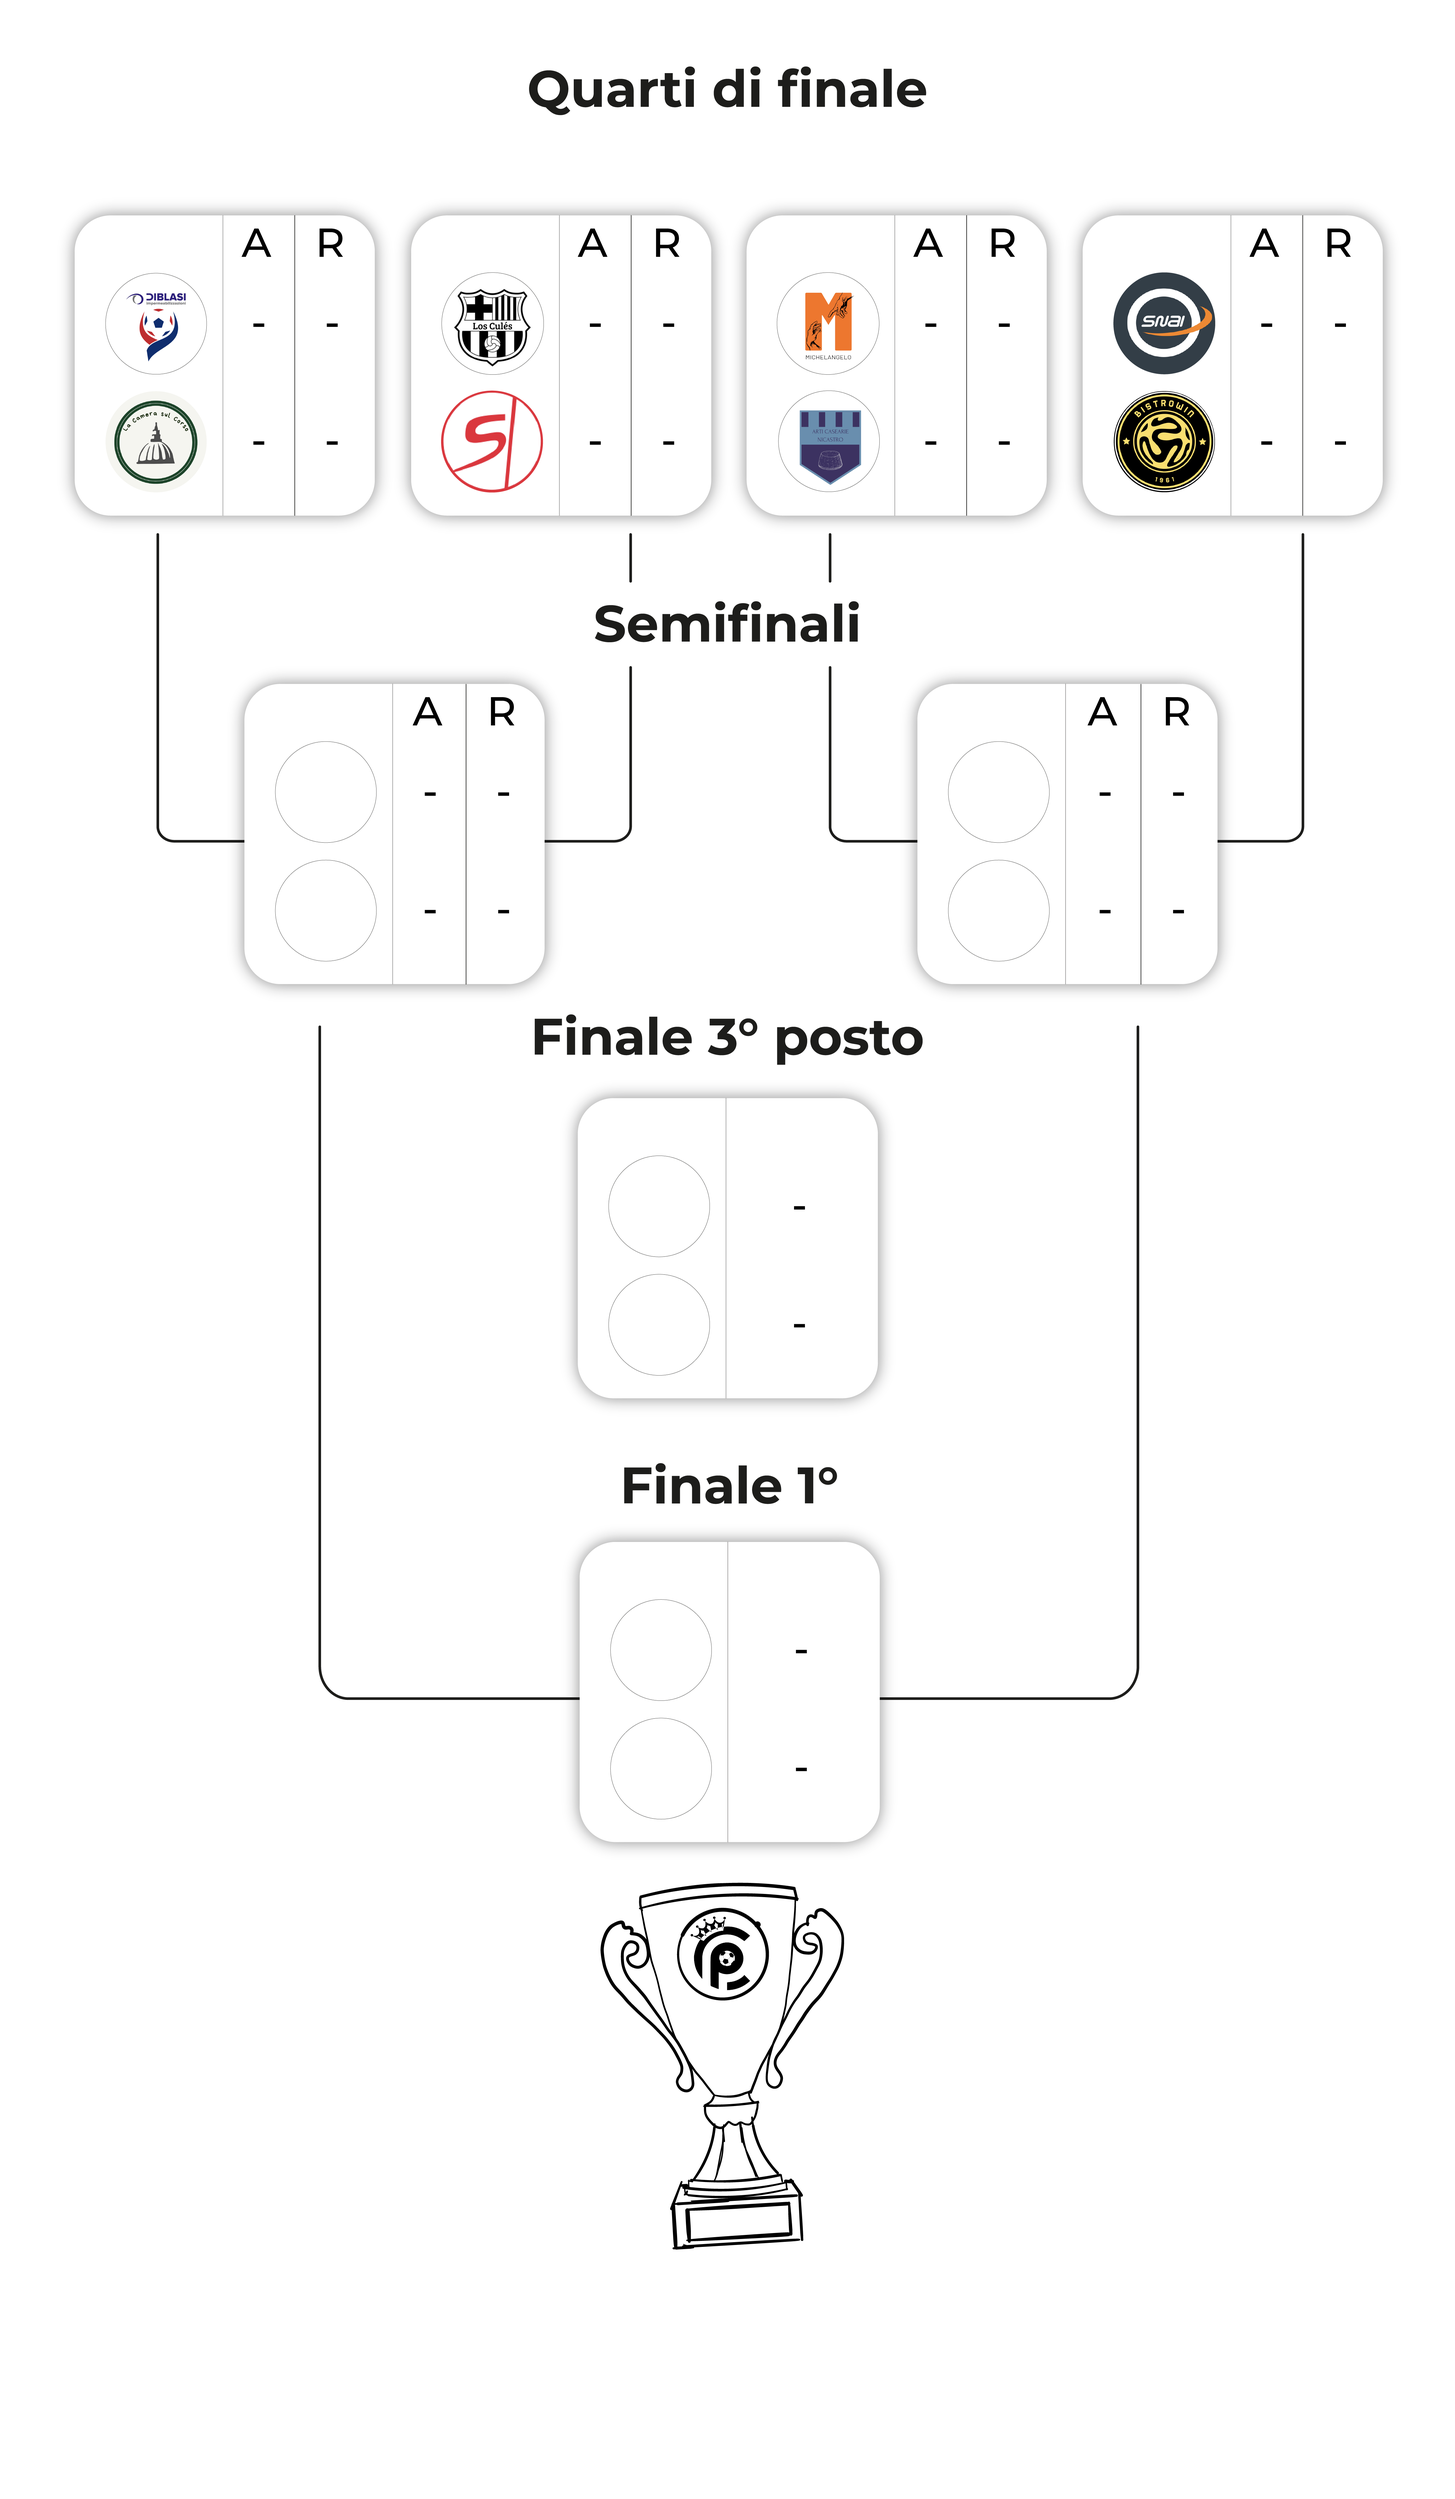
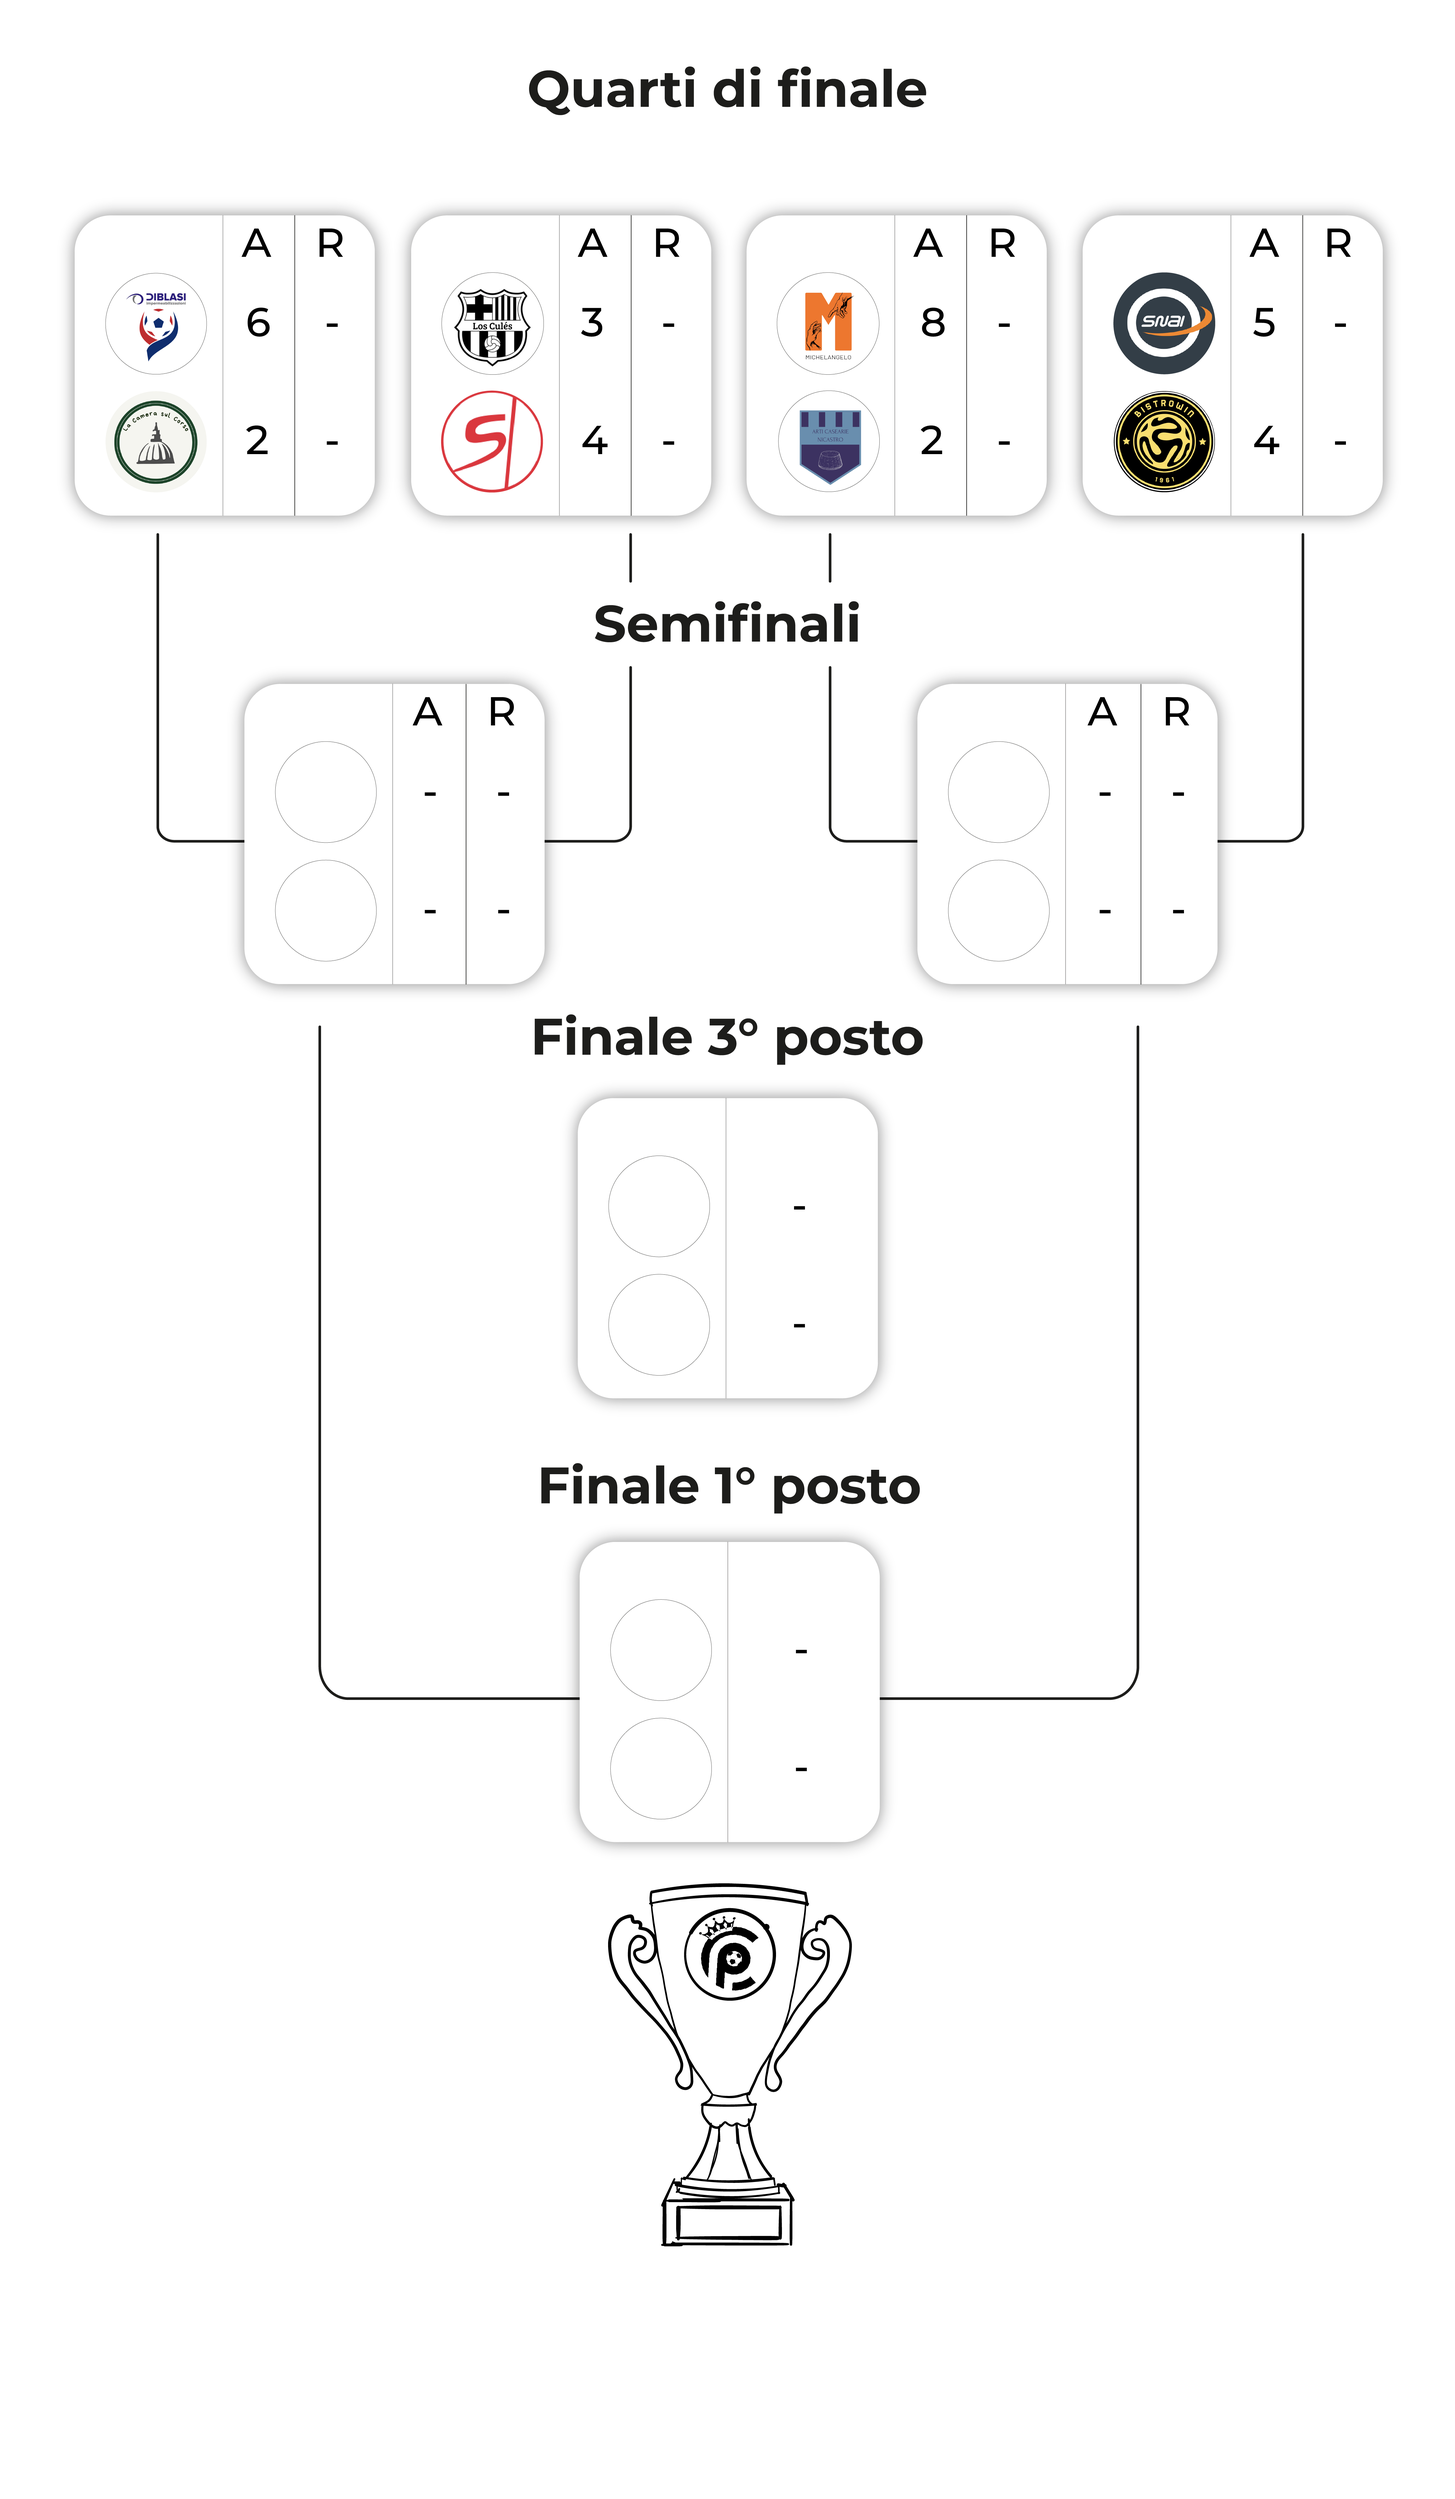
forse

diff --git a/squadre.html b/squadre.html
@@ -106,9 +106,9 @@ viceallenatore: "Matteo Giaquinta"
    },
     {
         nome: "Snai",
-      giocatori: ["Loris Anfuso", "Matteo Grosso", "Ivan Anfuso", "Luigi Digeronimo", "Danilo Anfuso", "Antonio Palma", "Vincenzo Aquino", "Giulio Lirosi"],
-      allenatore: "Michele Camiolo",
-      viceallenatore: "Sergio Grosso"
+      giocatori: ["Loris Anfuso", "Matteo Grosso", "Ivan Anfuso", "Luigi Digeronimo", "Danilo Anfuso", "Antonio Palma", "Vincenzo Aquino", "Giulio Lirosi","Sergio Grosso"],
+      allenatore: "Salvo Cannizzo",
+      viceallenatore: "Michele Camiolo",
     },
     {
       nome: "FantaEsagonale",
@@ -126,7 +126,7 @@ viceallenatore: "Matteo Giaquinta"
     },
     {
       nome: "StanleyBet",
-      giocatori: ["Rosario Italiano", "Daniele Barone", "Antony Russo", "Daniele Trombino", "Lamin Charty", "Flavio Pinazzo", "Andrea Virga", "Michele Virga", "Loris Scarlata","Alex Casciana", "Francesco Purità","Fabrizio Piasenzotto", "Mikael Chiaramonte"],
+      giocatori: ["Rosario Italiano", "Daniele Barone", "Antony Russo", "Daniele Trombino", "Lamin Charty", "Flavio Pinazzo", "Andrea Virga", "Michele Virga", "Loris Scarlata","Alex Casciana", "Francesco Purità","Fabrizio Piasenzotto", "Mikael Chiaramonte","Achille Zapparrata","Stefano Cutugno"],
       allenatore: "Gaetano Purità",
     viceallenatore: "Edoardo Iannizzotto"
     },
@@ -145,7 +145,7 @@ viceallenatore: "Matteo Giaquinta"
     },
     {
       nome: "BistroWin",
-      giocatori: ["Yessin Abdellatif", "Matteo Salafia", "Yacouba Diakité", "Sassy Fofana", "Fanka Cissé", "Kirolous Soliman", "Abdoulaye Konaté", "Leonardo Murgo", "Salvo Spada"],
+      giocatori: ["Yessin Abdellatif", "Matteo Salafia", "Yacouba Diakité", "Sassy Fofana", "Fanka Cissé", "Kirolous Soliman", "Abdoulaye Konaté", "Leonardo Murgo", "Salvo Spada","Samba Traorè"],
       allenatore: "Gioele Stracuzzi",
     },
     

diff --git a/risultati.html b/risultati.html
@@ -167,10 +167,10 @@ const datiPartite = {
   
 
   "2025-05-26": [
-  { data: "26 Maggio", squadra1: "La Camera sul Corso", gol1: "-", squadra2: "Diblasi s.r.l.", gol2: "-", ora: "19:30" },
-    { data: "26 Maggio", squadra1: "Arti Casearie Nicastro", gol1: "-", squadra2: "Il Michelangelo", gol2: "-", ora: "20:30" },
-    { data: "26 Maggio", squadra1: "BistroWin", gol1: "-", squadra2: "Snai", gol2: "-", ora: "21:30" },
-    { data: "26 Maggio", squadra1: "StanleyBet", gol1: "-", squadra2: "Los Cules", gol2: "-", ora: "22:30" }
+  { data: "26 Maggio", squadra1: "La Camera sul Corso", gol1: "2", squadra2: "Diblasi s.r.l.", gol2: "6", ora: "19:30" },
+    { data: "26 Maggio", squadra1: "Arti Casearie Nicastro", gol1: "2", squadra2: "Il Michelangelo", gol2: "8", ora: "20:30" },
+    { data: "26 Maggio", squadra1: "BistroWin", gol1: "4", squadra2: "Snai", gol2: "5", ora: "21:30" },
+    { data: "26 Maggio", squadra1: "StanleyBet", gol1: "4", squadra2: "Los Cules", gol2: "3", ora: "22:30" }
   ],
   "2025-05-28": [
   { data: "28 Maggio", squadra1: "Quarto di finale ritorno", gol1: "-", squadra2: "", gol2: "-", ora: "19:30" },

diff --git a/statistiche.html b/statistiche.html
@@ -46,7 +46,7 @@
 </nav>
 <section class="statistiche-fake">
   <button class="btn-statistiche">STATISTICHE</button>
-  <img src="immagini/classi -17-17-17-17.png" alt="Statistica Torneo" class="immagine-statistiche">
+  <img src="immagini/statistiche-17.png" alt="Statistica Torneo" class="immagine-statistiche">
 </section>
 
 

diff --git a/tabellone.html b/tabellone.html
@@ -46,7 +46,7 @@
 </nav>
 <section class="statistiche-fake">
   <button class="btn-statistiche">TABELLONE</button>
-  <img src="immagini/tabellone-19.png" alt="Statistica Torneo" class="immagine-statistiche">
+  <img src="immagini/tabellone.png" alt="Statistica Torneo" class="immagine-statistiche">
 </section>
 
 
